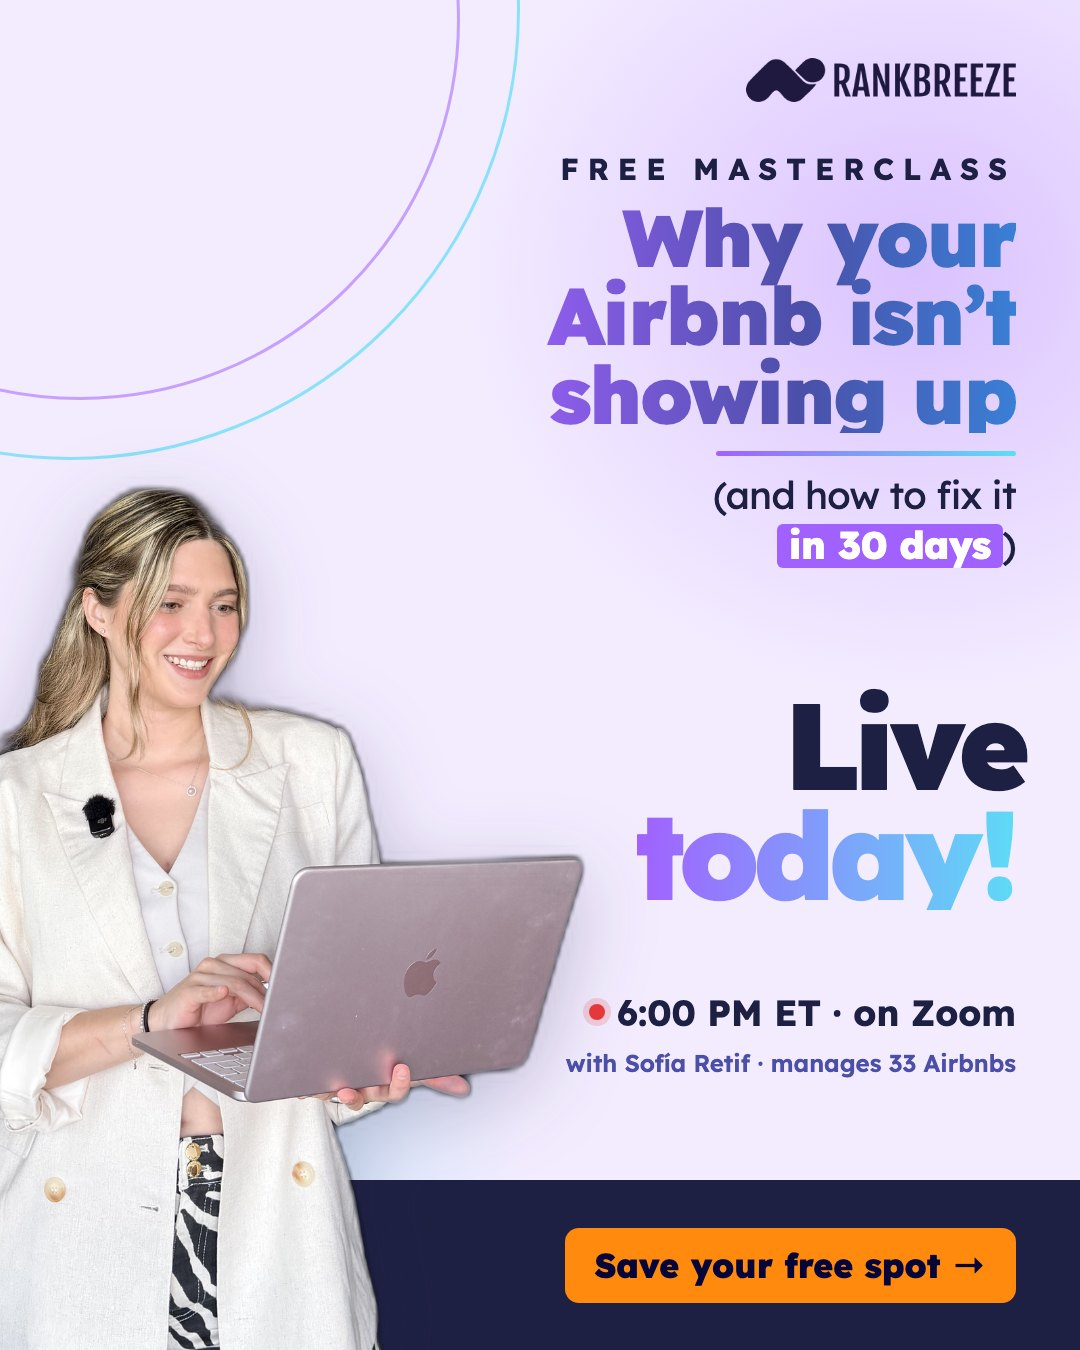
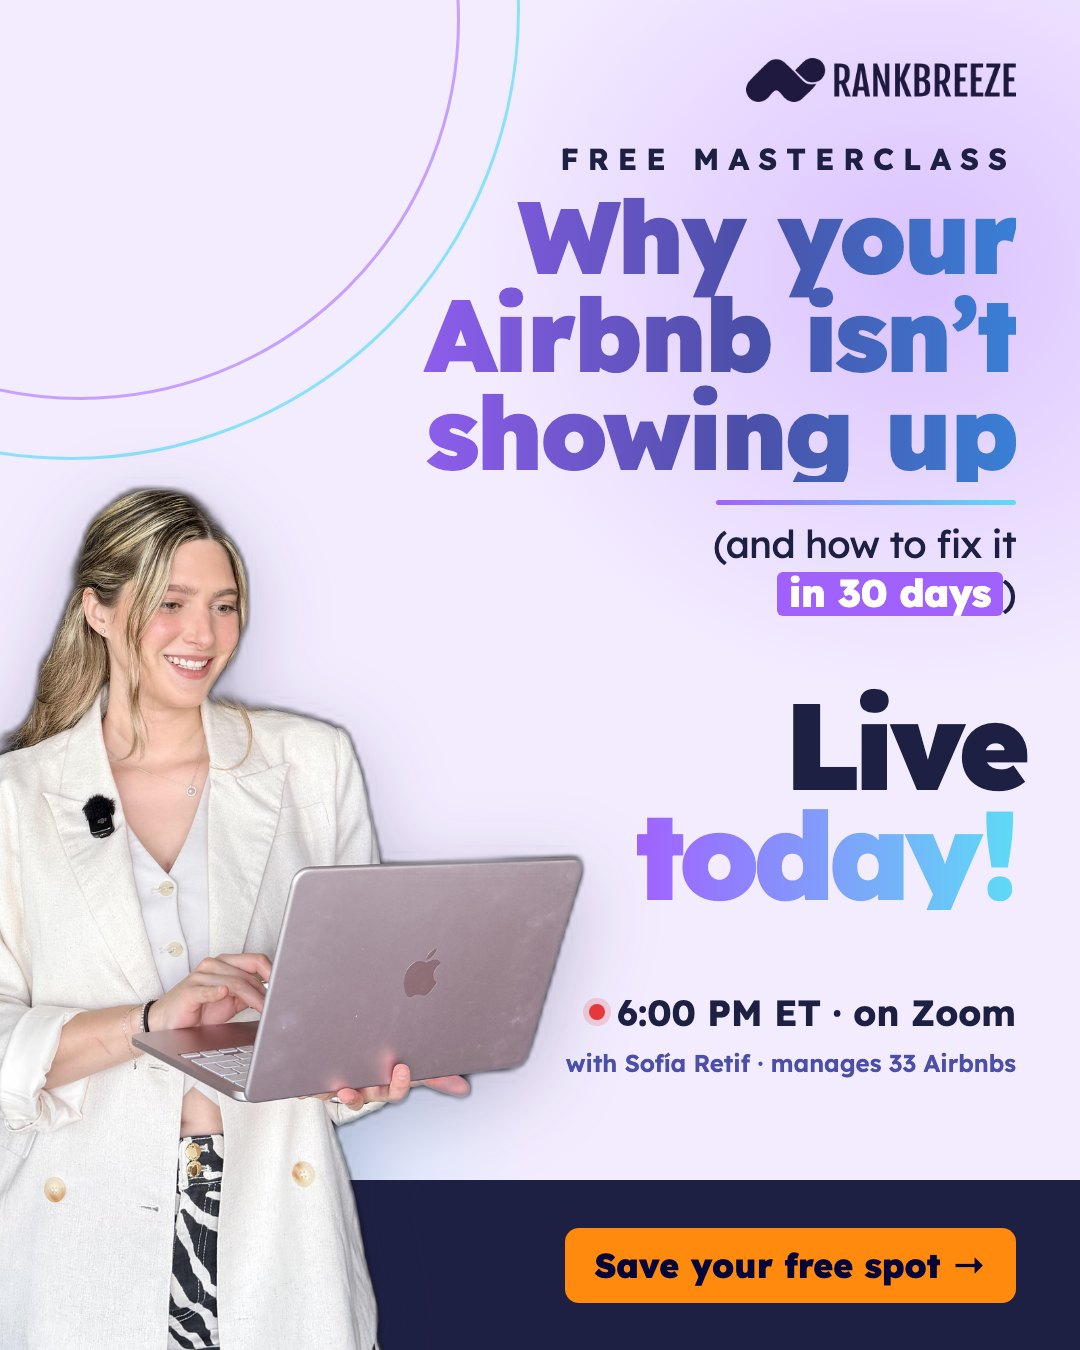
RankBreeze portfolio: bigger headline on masterclass post

Changed region(s): [[0.3972, 0.0933, 0.9472, 0.4667]]

diff --git a/rankbreeze/index.html b/rankbreeze/index.html
@@ -860,7 +860,7 @@
         <p class="mc-k">Headlines I'd A/B test</p>
         <ol class="heads"><li class="on"><span>A</span>Why your Airbnb isn’t showing up (and how to fix it in 30 days)</li><li><span>B</span>Back to page 1: 3 data-backed fixes to get your Airbnb booked more</li><li><span>C</span>Page 14 → Page 2: how hosts climb Airbnb search</li><li><span>D</span>Your listing didn’t get worse. It got buried.</li><li><span>E</span>Stop guessing: the price, photos and title that actually book</li><li><span>F</span>The 3 ranking levers Airbnb doesn’t tell you about</li></ol>
       </div>
-      <figure class="mc-poster"><img src="/assets/rankbreeze/masterclass-poster.jpg?v=8" alt="Concept Instagram post for a free Rankbreeze masterclass: Why your Airbnb isn’t showing up (and how to fix it in 30 days), live today with Sofía Retif" loading="lazy"><figcaption>The launch post, in your brand</figcaption></figure>
+      <figure class="mc-poster"><img src="/assets/rankbreeze/masterclass-poster.jpg?v=9" alt="Concept Instagram post for a free Rankbreeze masterclass: Why your Airbnb isn’t showing up (and how to fix it in 30 days), live today with Sofía Retif" loading="lazy"><figcaption>The launch post, in your brand</figcaption></figure>
     </div>
     <p class="ig-note">Concept mockup made for this application. Not an official Rankbreeze account or post.</p>
   </div>
